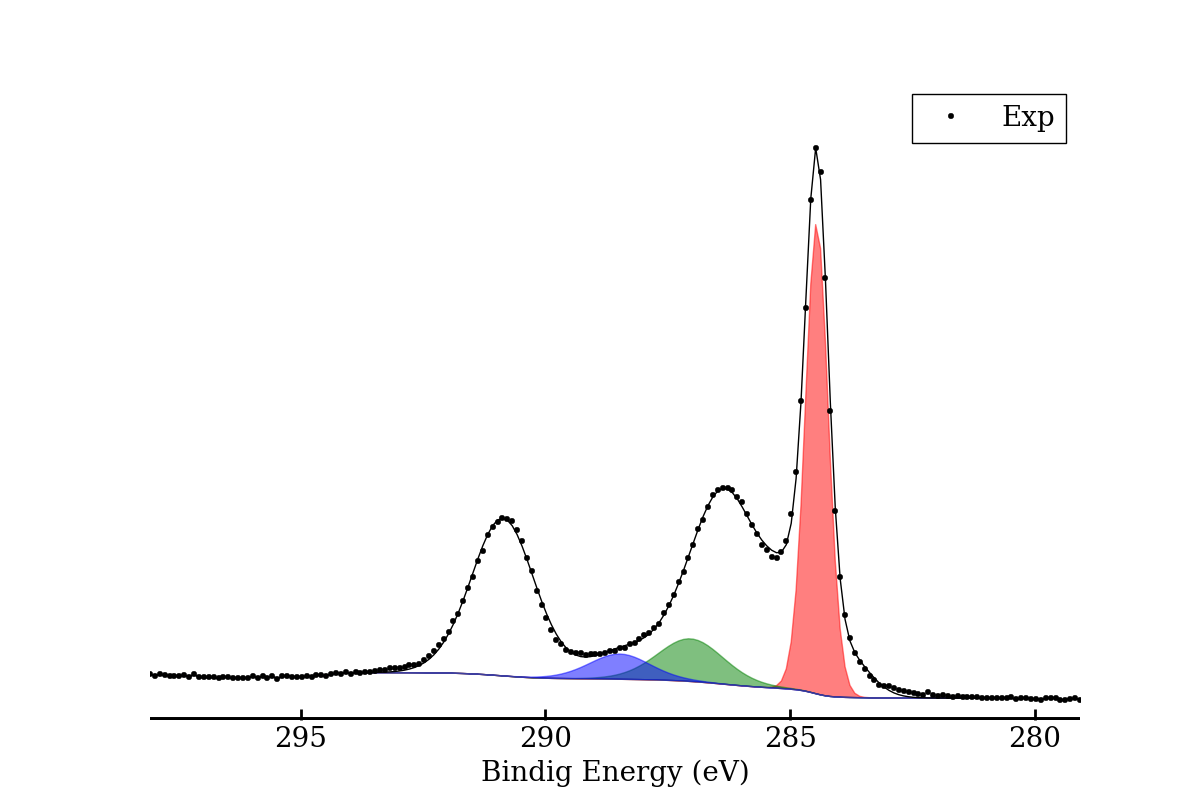
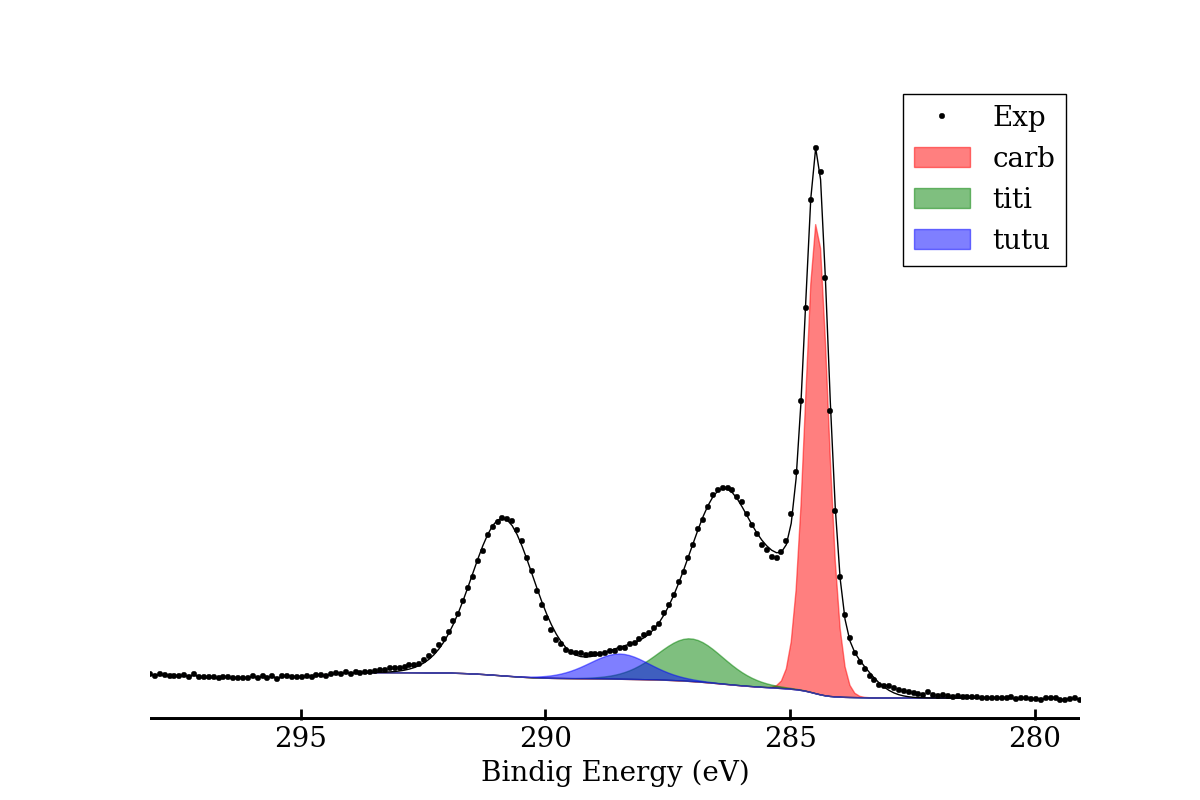
add method in order to substract background

Changed region(s): [[0.74, 0.125, 0.8942, 0.3438]]

diff --git a/xpsplot.py b/xpsplot.py
@@ -95,6 +95,22 @@ class XPSData(object):
             if new != "":
                 self.set_column_name(old, new)
 
+    def substract_bg(self, bg="BG"):
+        """
+        Substract background column to all data columns. If from_file was used
+        the background column is called 'BG'. A different column name can be
+        given as an optional argument.
+
+        Args:
+            bg (str): background column name, default is "BG"
+        """
+        if bg not in self.data.columns:
+            raise NameError("'{}' is not an existing column. ".format(bg) +
+                            "Try list_columns()")
+        bg_data = self.data[bg].copy()
+        for col in self.data.columns:
+            self.data[col] -= bg_data
+
     def get_plot(self, columns=None, fill=False, ax=None, xaxes=True,
                  legend=True, fname=True):
         """
@@ -135,7 +151,8 @@ class XPSData(object):
             else:
                 if fill and "BG" in self.data.columns:
                     ax.fill_between(self.data.index, self.data.BG,
-                                    self.data[col], alpha=ALPHA, color=color)
+                                    self.data[col], label=col, alpha=ALPHA,
+                                    color=color)
                 else:
                     ax.plot(self.data.index, self.data[col], linewidth=LINEWIDTH,
                             c=color, label=col)
@@ -272,6 +289,17 @@ class StackedXPSData(object):
             newname = input("{} => ".format(c))
             if newname.strip() != "":
                 self.set_column_name(c, newname)
+
+    def substract_bg(self, bg="BG"):
+        """
+        Substract the background column given as bg arguments to all data
+        columns in each xpsData object.
+
+        Args:
+            bg (string): name of the background column, default is "BG"
+        """
+        for xpsData in self.xpsData:
+            xpsData.substract_bg(bg)
 
     def get_plot(self, columns=None, fill=False, legend=True, fname=True, pos=[]):
         """

diff --git a/example2.py b/example2.py
@@ -4,13 +4,17 @@
 
 import xpsplot
 
+# load data and set the global title
 stuff = xpsplot.StackedXPSData("report1.TXT", "report2.TXT", "report2.TXT")
-
 stuff.title = "C1s of a nice surface"
 
 # set column names. If "", column name is keep unchanged
 stuff.set_all_column_names("", "", "carb", "", "", "tata", "toto", "titi", "tutu")
 
+# substract background data
+stuff.substract_bg()
+
+# save the plot
 stuff.save_plot("stack.png",                                          # picture name
                 columns=["Exp", "carb", "titi", "tutu", "envelope"],  # column to plot
                 fill=True,                                            # fill component

diff --git a/README.md b/README.md
@@ -50,13 +50,17 @@ This is `example2.py` file in order to plot several data files
 ```python
 import xpsplot
 
+# load data and set the global title
 stuff = xpsplot.StackedXPSData("report1.TXT", "report2.TXT", "report2.TXT")
-
 stuff.title = "C1s of a nice surface"
 
 # set column names. If "", column name is keep unchanged
 stuff.set_all_column_names("", "", "carb", "", "", "tata", "toto", "titi", "tutu")
 
+# substract background data
+stuff.substract_bg()
+
+# save the plot
 stuff.save_plot("stack.png",                                          # picture name
                 columns=["Exp", "carb", "titi", "tutu", "envelope"],  # column to plot
                 fill=True,                                            # fill component
